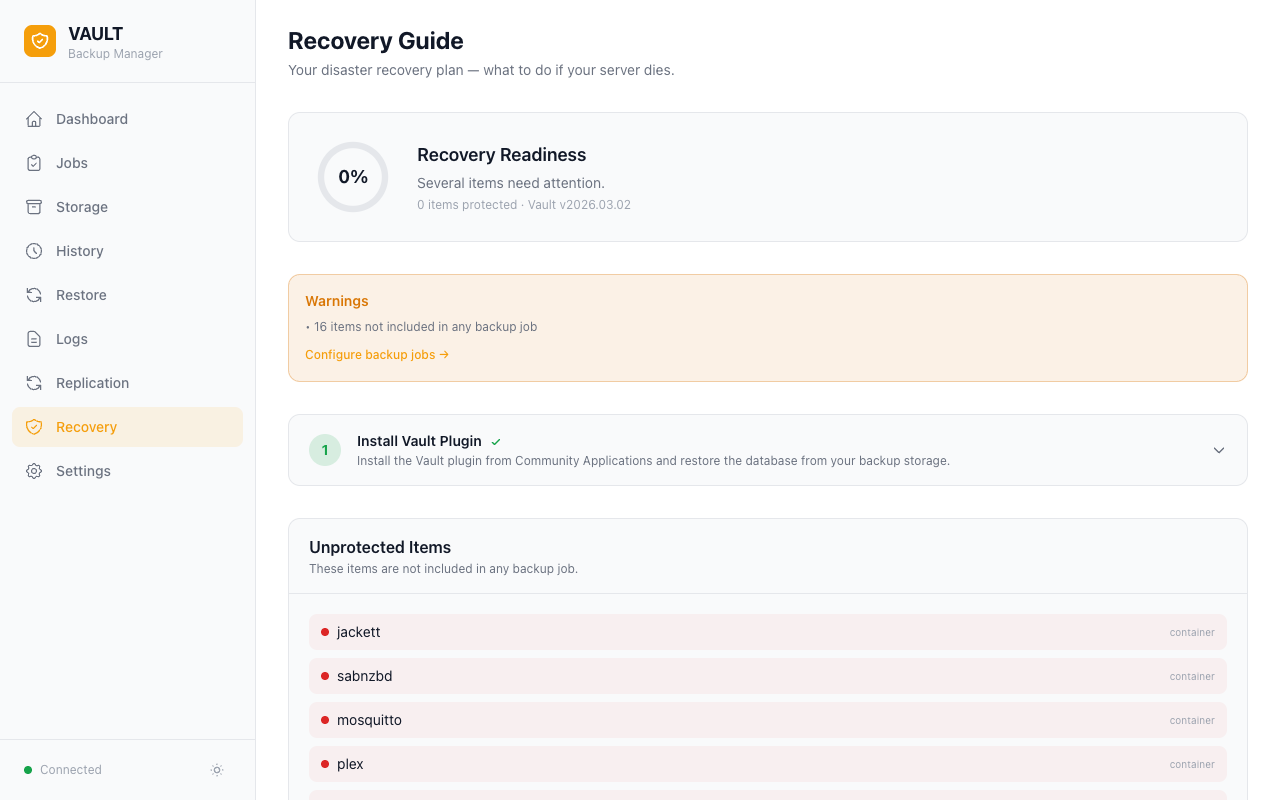
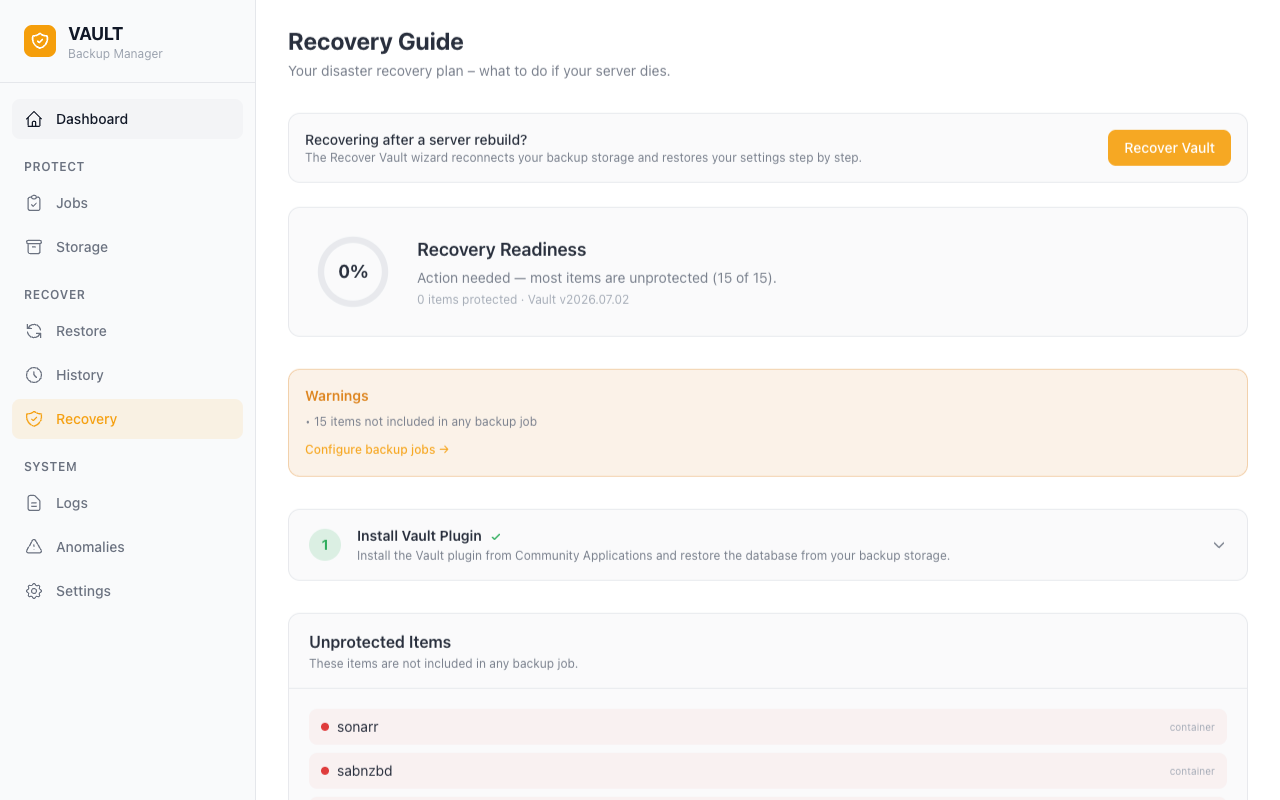
Refreshed screenshots for documentation

diff --git a/docs/guides/storage-destinations.md b/docs/guides/storage-destinations.md
@@ -4,6 +4,8 @@ Vault writes compressed (and optionally encrypted) backup archives to a storage 
 
 ## Overview
 
+![Storage type picker](../screenshots/13-add-storage-picker.png)
+
 | Type       | When to use                                                                                 |
 | ---------- | ------------------------------------------------------------------------------------------- |
 | **Local**  | Unraid array share, directly attached USB/SSD, or any locally mounted path                  |

diff --git a/CHANGELOG.md b/CHANGELOG.md
@@ -24,6 +24,7 @@ The format is based on [Keep a Changelog](https://keepachangelog.com/), and this
 
 ### Changed
 
+- **Documentation screenshots refreshed** to match the current Vault dashboard, storage, job wizard, recovery, responsive, and theme-aware UI.
 - **License changed from MIT to AGPL-3.0.** Vault is now distributed under the GNU Affero General Public License v3.0 to keep derivative and network-served modifications open source.
 
 ## [v2026.07.02] - 2026-07-09

diff --git a/docs/guides/backup-jobs.md b/docs/guides/backup-jobs.md
@@ -6,6 +6,8 @@ A backup job defines _what_ to back up, _where_ to put it, _when_ to run, and ho
 
 Go to **Jobs** → **Create Job**. The wizard has four steps.
 
+![Create backup job wizard](../screenshots/14-job-wizard.png)
+
 ---
 
 ### Step 1 — What
